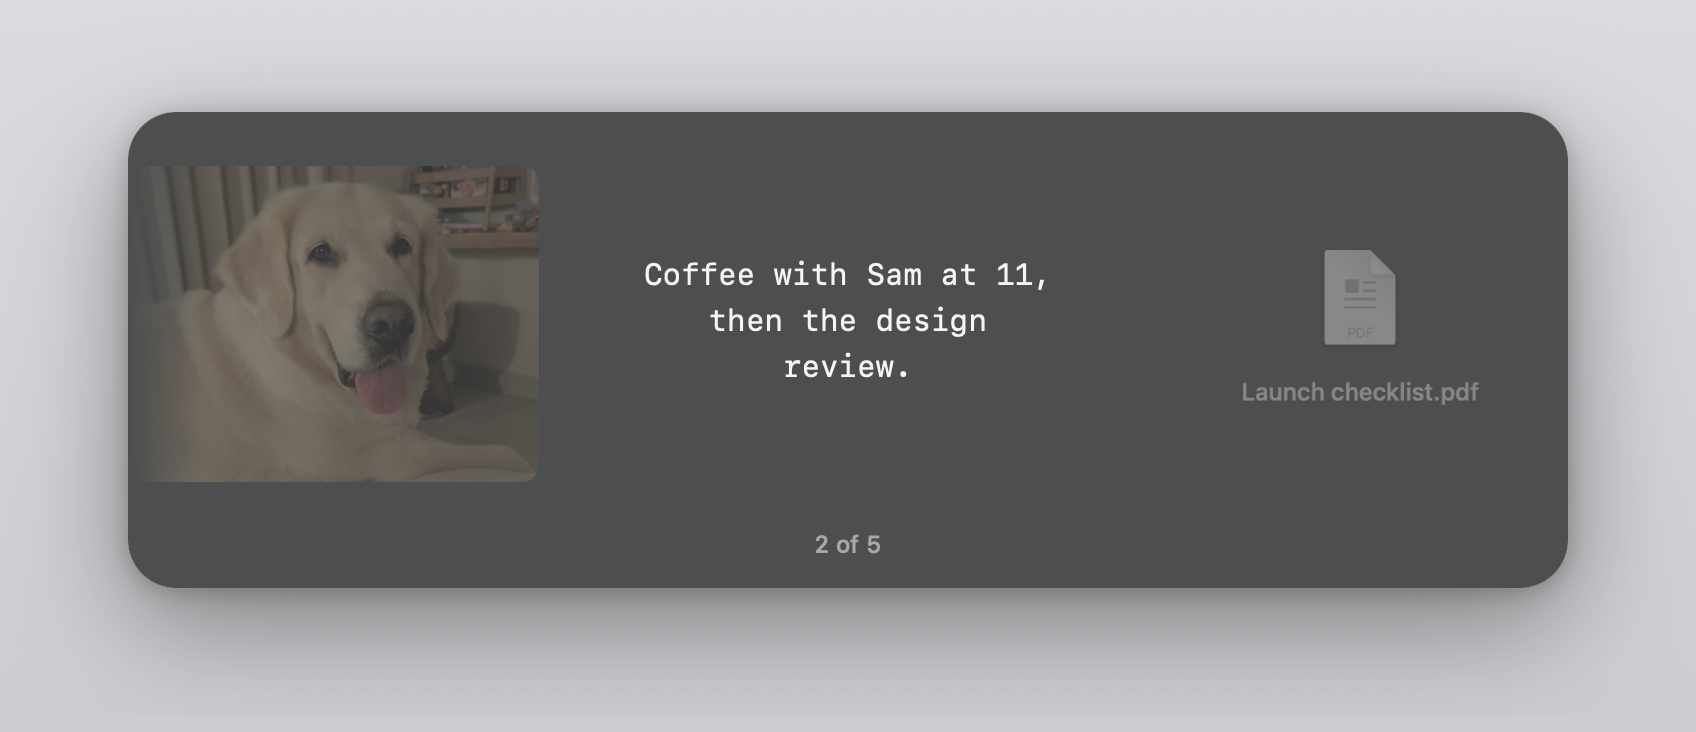
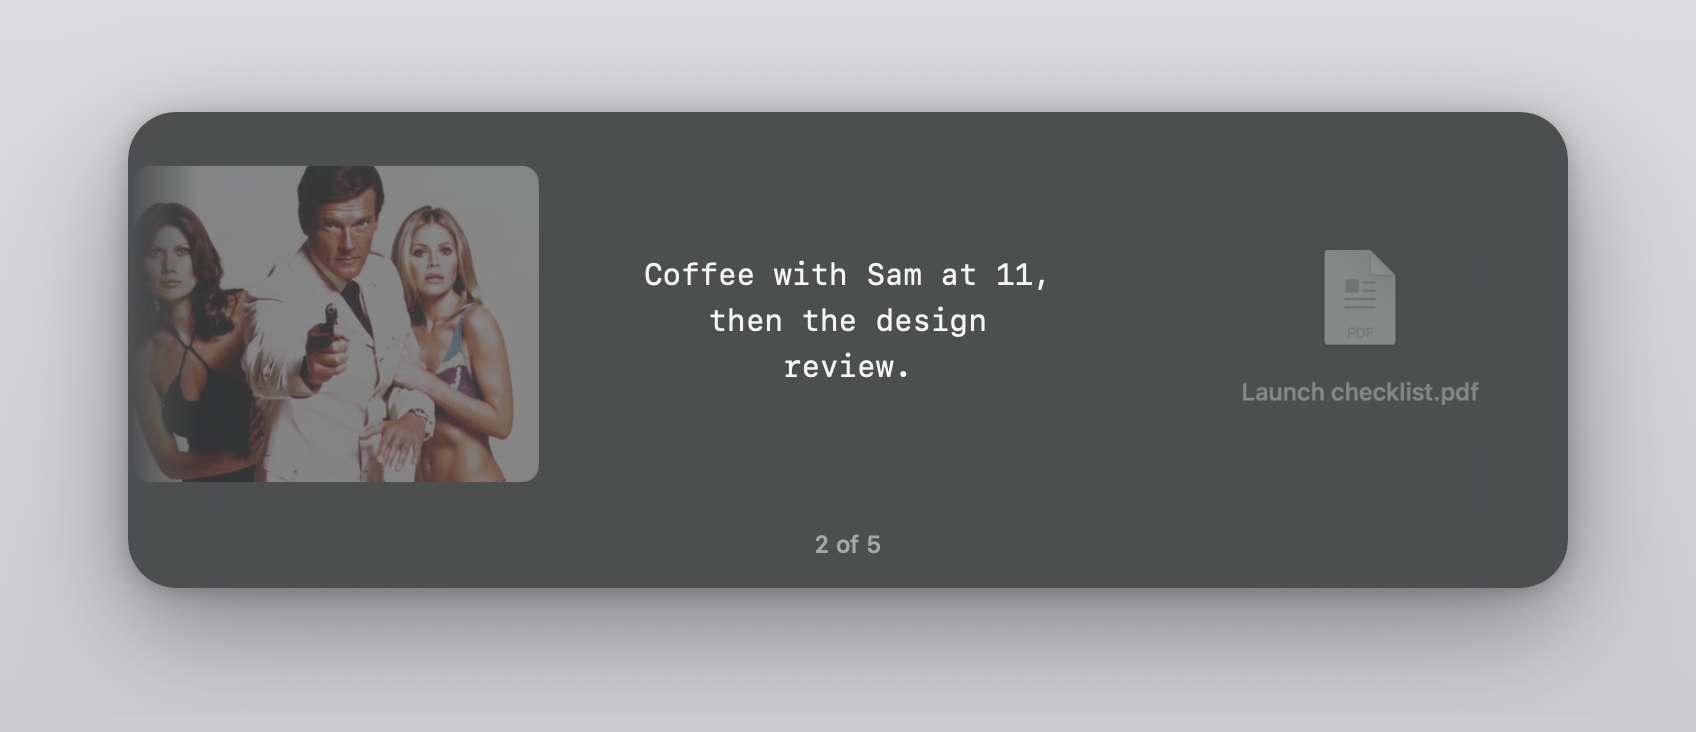
Put the Roger Moore still and the GI Joe cartoon in the README
The still sits under the title and is also the image clip in the retaken
bezel and menu shots, so the three agree. The cartoon closes the README
above the licence.

Changed region(s): [[0.0938, 0.2104, 0.3438, 0.6612]]

diff --git a/README.md b/README.md
@@ -1,5 +1,7 @@
 # Roger
 
+![Roger Moore as James Bond](docs/screenshots/roger-moore.png)
+
 A clipboard history for macOS: every text, image and file you copy, one
 keystroke away in the menu bar.
 
@@ -37,6 +39,8 @@ Change it in Preferences.
 ![The bezel open on a text item](docs/screenshots/bezel.png)
 
 ![The menu-bar menu with text and image rows](docs/screenshots/menu.png)
+
+![I copy, over and out](docs/screenshots/copy-that.png)
 
 ## License
 
